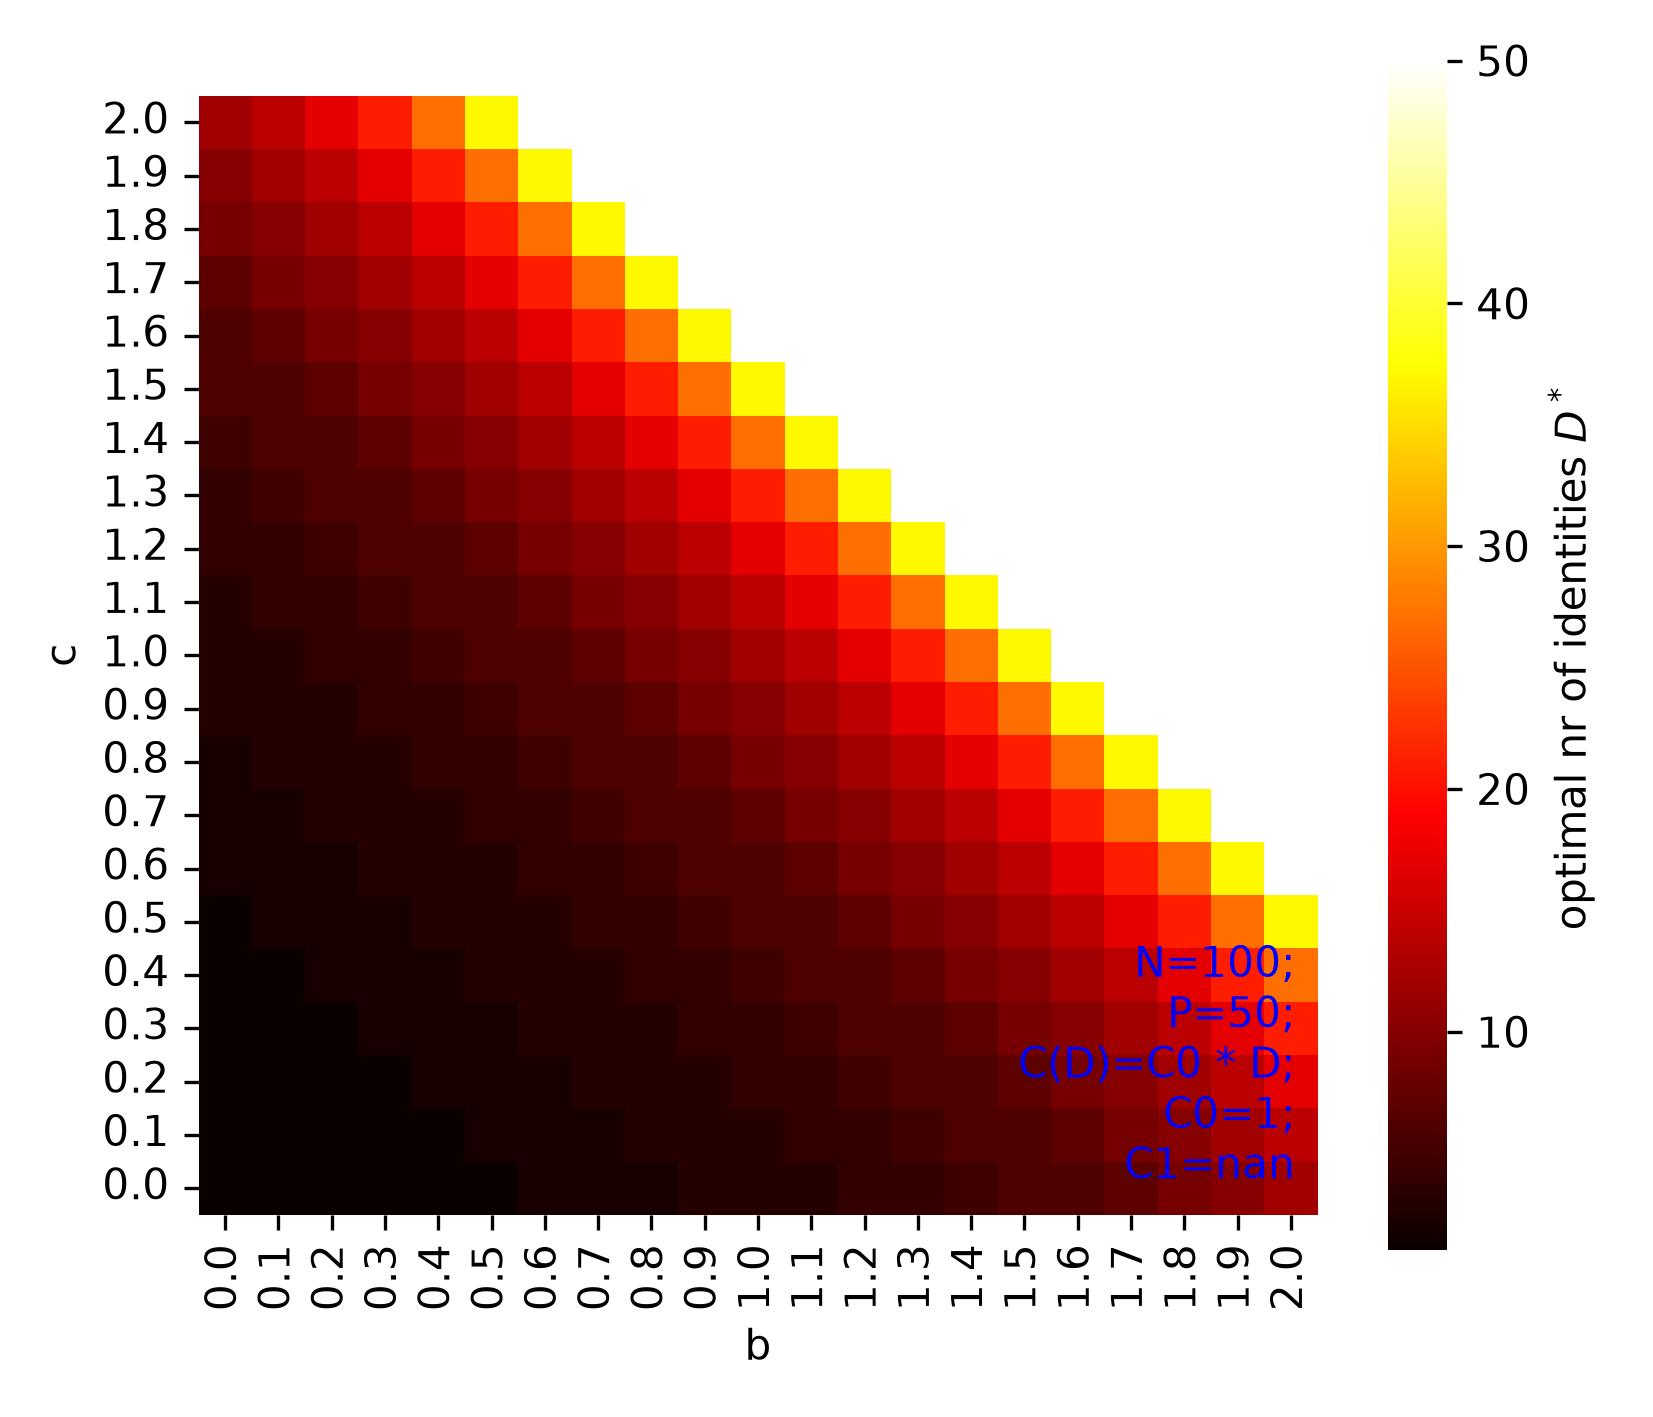
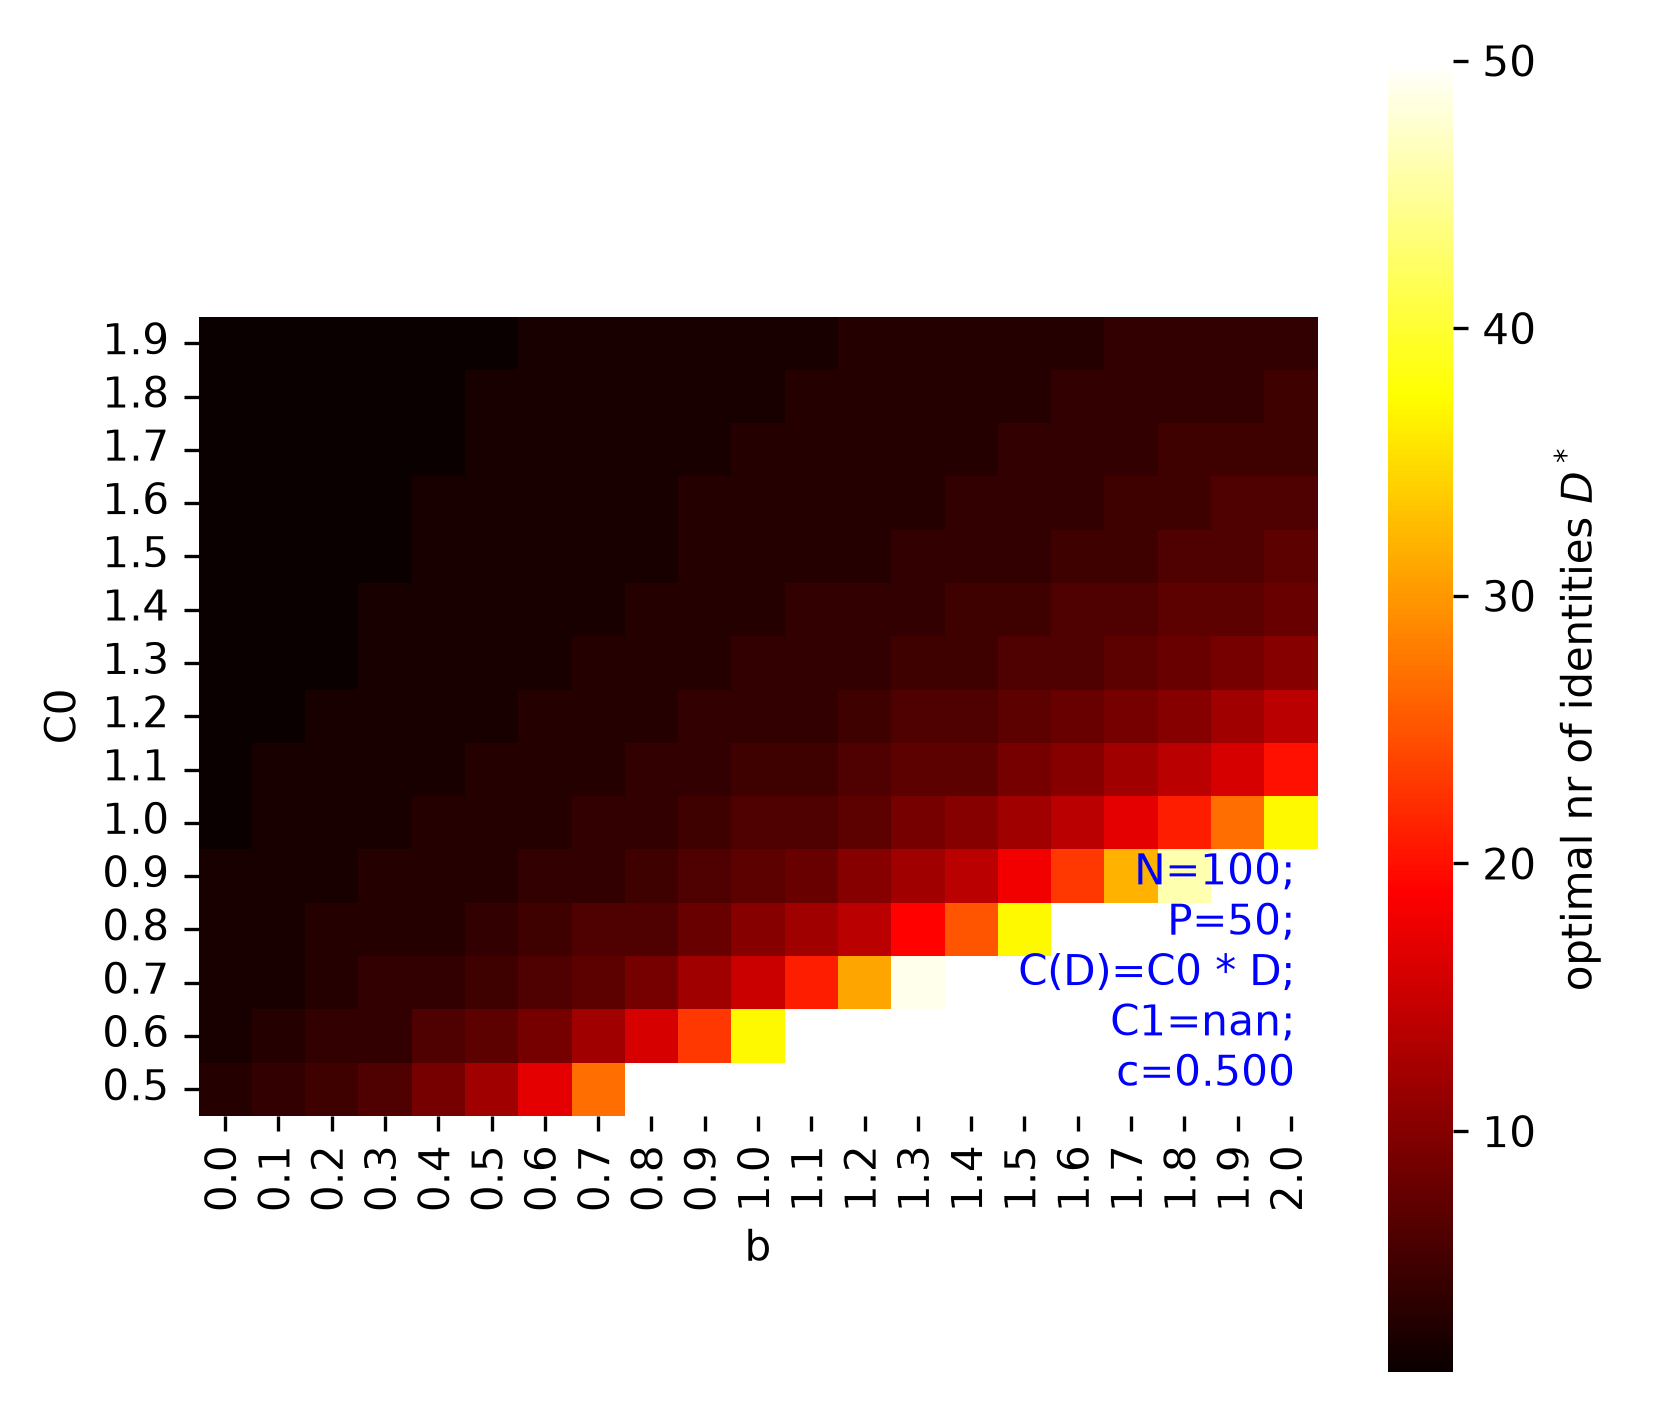
updated plots

diff --git a/modelfast.py b/modelfast.py
@@ -200,20 +200,25 @@ C0, C1 = 1, np.nan
 costFunc = lambda D, C0, C1: C0 * D
 C_name = "C0 * D"
 
-grid = np.round(np.arange(0, 2.01, 0.1), 10)   # rounding keeps float comparisons safe
+grid_b  = np.round(np.arange(0, 2.01, 0.1), 3)
+grid_C0 = np.round(np.arange(0.5, 2, 0.1), 3)
+
+# grid = np.round(np.arange(0, 2.01, 0.1), 10)   # rounding keeps float comparisons safe
 Ds = np.arange(1, P + 1)                       # includes D = P
-df_linear = run_grid(grid, grid, Ds, P, N, n_runs=1000,
-                        costFunc=costFunc, C0=C0, C1=C1, C_name=C_name)
-df_Dstar_linear = get_Dstar(df_linear, ["b", "c"])
+df_linear = run_grid_C0(grid_b, c, grid_C0, Ds, P, N, n_runs=1000,
+                        costFunc=costFunc,  C1=C1, C_name=C_name)
+df_Dstar_linear = get_Dstar(df_linear, ["b", "C0"])
 
 #%%
 os.makedirs("figs", exist_ok=True)
 c = 1.0
-plot_UoverD(df_linear, df_Dstar_linear, [dict(b=b, c=c) for b in grid], inset_loc=(0.6,0.1,0.36,0.38))
-plt.tight_layout()
-plt.savefig(f"figs/example_linear_UoverDCurves_c{c}.png", dpi=300)
+C0plot = grid_C0[5]
 
-plot_heat(df_linear, df_Dstar_linear, ["b", "c"])
+plot_UoverD(df_linear, df_Dstar_linear, [dict(b=b, C0=C0plot) for b in grid_b], inset_loc=(0.6,0.1,0.36,0.38))
+plt.tight_layout()
+plt.savefig(f"figs/example_linear_UoverDCurves_C0-{C0plot}.png", dpi=300)
+
+plot_heat(df_linear, df_Dstar_linear, ["b", "C0"])
 plt.tight_layout()
 plt.savefig("figs/linear_Dstar_overStoreCost_X_Benefit.png", dpi=300)
 
@@ -231,7 +236,7 @@ costFunc_log = lambda D, C0, C1=1: C0 * np.log2(C1 * D)
 for cfunc in["exp", "log"]:
     C1 = 0.035 if cfunc == "exp" else 1
     grid_b  = np.round(np.arange(0, 10.01, 1), 3)
-    grid_C0 = np.round(np.arange(1, 50, 5), 3)
+    grid_C0 = np.round(np.arange(1, 51, 5), 3)
     Ds = np.arange(1, P + 1)
     df_explog = run_grid_C0(grid_b, c, grid_C0, Ds, P, N, n_runs=1000,
                         costFunc=costFunc_exp if cfunc=="exp" else costFunc_log, C1=C1, C_name=f"C0*{cfunc}(C1*D)")
@@ -240,7 +245,7 @@ for cfunc in["exp", "log"]:
     C0plot = grid_C0[5]
     plot_UoverD(df_explog, df_Dstar_explog, [dict(b=b, C0=C0plot) for b in grid_b], inset_loc=((0.6 if cfunc=="exp" else 0.4),0.1,0.36,0.38))
     plt.tight_layout()
-    plt.savefig(f"figs/example_{cfunc}_UoverDCurves_C0{C0}.png", dpi=300)
+    plt.savefig(f"figs/example_{cfunc}_UoverDCurves_C0-{C0plot}.png", dpi=300)
 
     fig, ax = plot_heat(df_explog, df_Dstar_explog, ["b", "C0"])
     plt.tight_layout()
